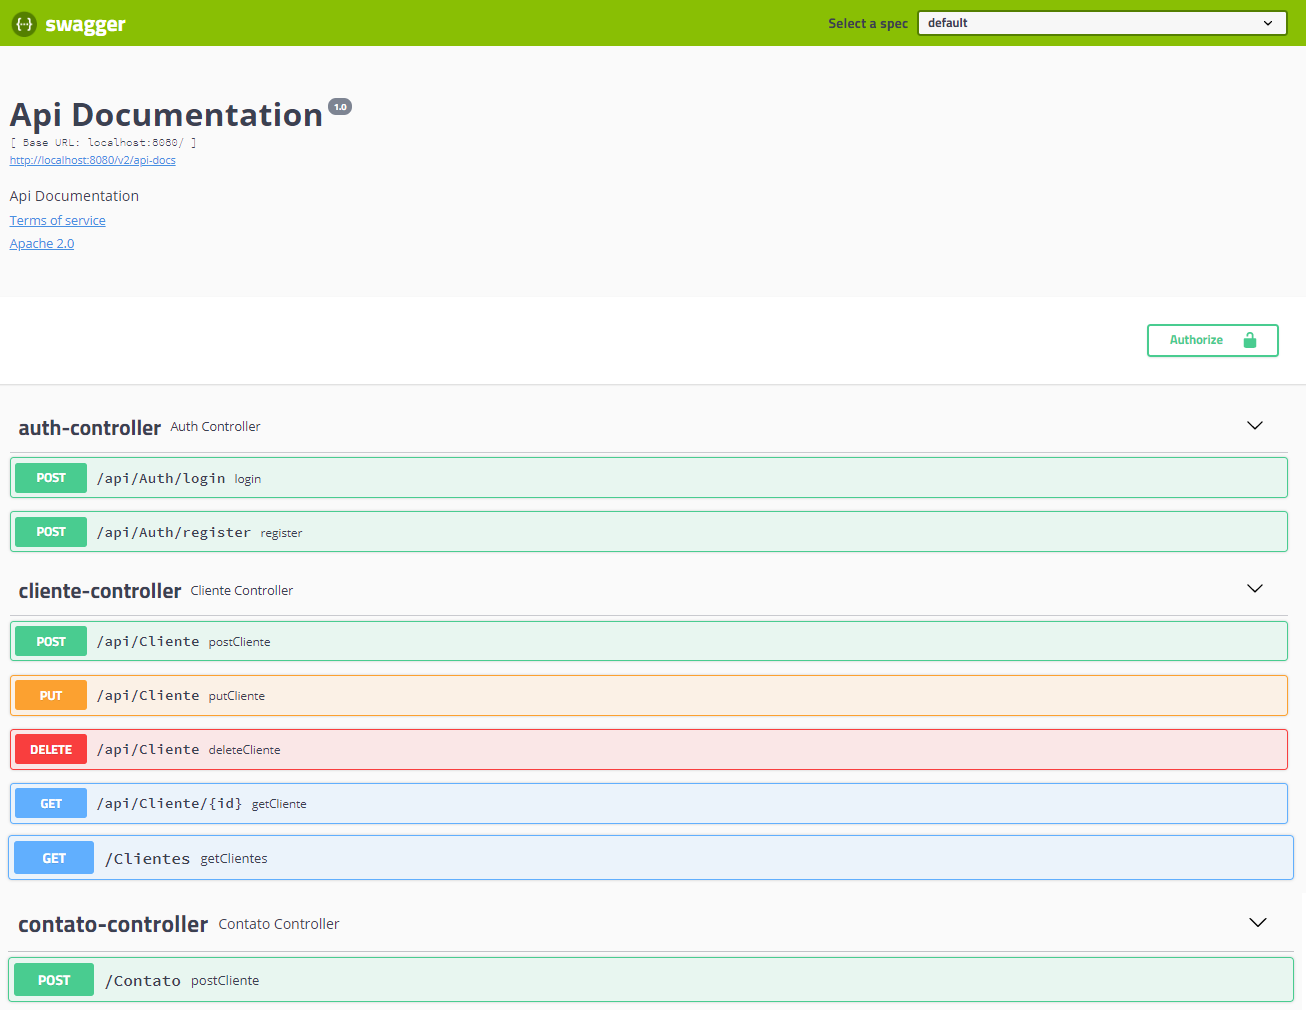
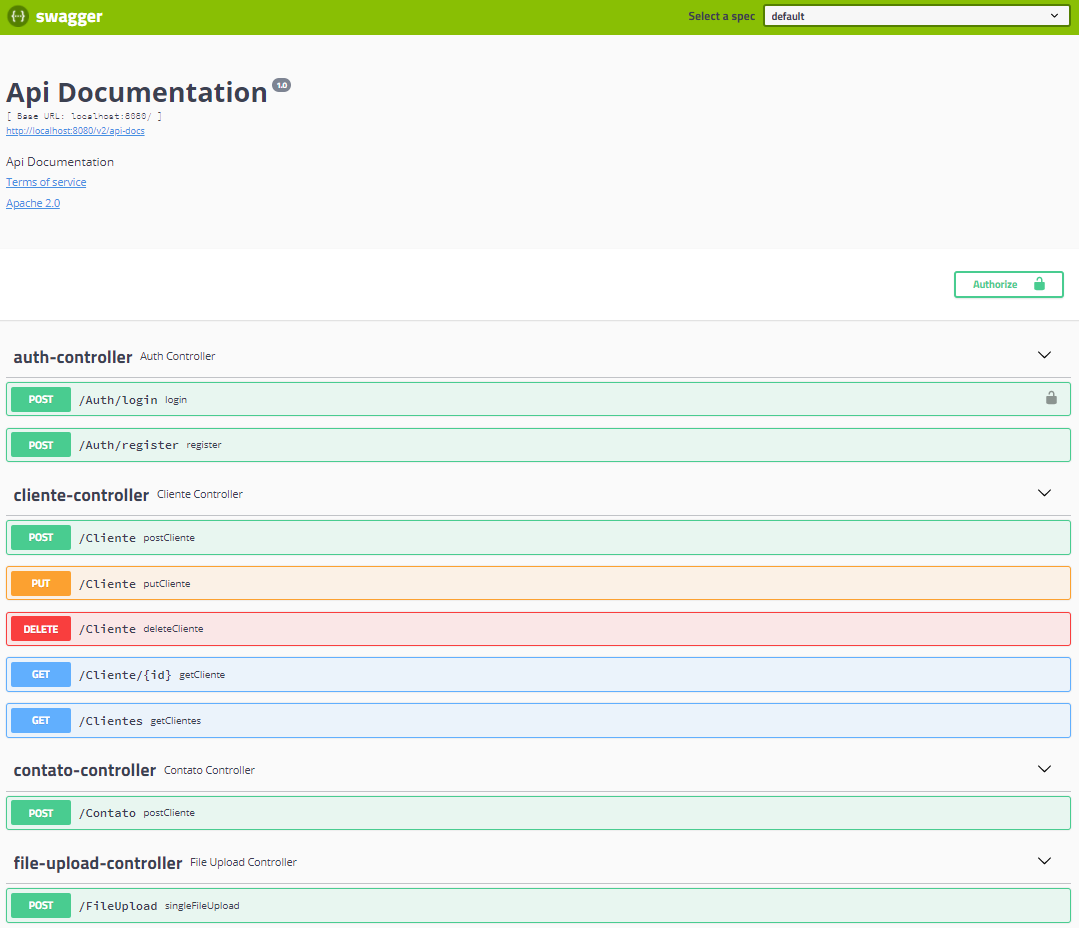
fileupload

Changed region(s): [[0.0, 0.375, 1.0, 1.0], [0.0, 0.0, 1.0, 0.25], [0.8563, 0.2812, 0.9787, 0.375]]

diff --git a/src/main/java/com/cliente/springboot/controller/FileUploadController.java b/src/main/java/com/cliente/springboot/controller/FileUploadController.java
@@ -1,0 +1,44 @@
+package com.cliente.springboot.controller;
+
+import org.springframework.web.bind.annotation.PostMapping;
+import org.springframework.web.bind.annotation.RequestParam;
+import org.springframework.web.multipart.MultipartFile;
+import org.springframework.web.servlet.mvc.support.RedirectAttributes;
+
+import springfox.documentation.swagger2.annotations.EnableSwagger2;
+import org.springframework.web.bind.annotation.RestController;
+import org.springframework.web.bind.annotation.RequestMapping;
+
+import java.io.IOException;
+import java.nio.file.Files;
+import java.nio.file.Path;
+import java.nio.file.Paths;
+
+@EnableSwagger2
+@RestController
+@RequestMapping()
+public class FileUploadController {
+
+    private static String UPLOADED_FOLDER = System.getProperty("java.io.tmpdir");
+
+    @PostMapping("/FileUpload") 
+    public String singleFileUpload(@RequestParam("file") MultipartFile file, RedirectAttributes redirectAttributes) {
+
+        if (file.isEmpty()) {
+            return "Erro ao tentar fazer upload";
+        }
+        try {
+            // Pega os bytes recebido e salva no diretório
+            byte[] bytes = file.getBytes();
+            Path path = Paths.get(UPLOADED_FOLDER + file.getOriginalFilename());
+            Files.write(path, bytes);
+
+            return "Arquivo:'" + file.getOriginalFilename() + "' upload realizado com sucesso!";
+
+        } catch (IOException e) {
+            return "Erro ao tentar fazer upload";
+        }
+
+    }
+
+}

diff --git a/src/main/java/com/cliente/springboot/config/WebSecurityConfig.java b/src/main/java/com/cliente/springboot/config/WebSecurityConfig.java
@@ -19,8 +19,9 @@ public class WebSecurityConfig extends WebSecurityConfigurerAdapter{
                                    "/swagger-resources/**",
                                    "/configuration/security",
                                    "/swagger-ui.html",
-								   "/webjars/**").permitAll()
-			.antMatchers(HttpMethod.POST, "/api/Auth/**").permitAll()
+								   "/webjars/**"
+								   ).permitAll()
+			.antMatchers(HttpMethod.POST, "/Auth/**").permitAll()
 			.anyRequest().authenticated()
 			.and()
 			

diff --git a/src/main/java/com/cliente/springboot/config/SwaggerConfig.java b/src/main/java/com/cliente/springboot/config/SwaggerConfig.java
@@ -60,7 +60,7 @@ public class SwaggerConfig {
     private SecurityContext securityContext() {
         return SecurityContext.builder()
             .securityReferences(defaultAuth())
-            .forPaths(PathSelectors.ant("api/Auth/login/**"))
+            .forPaths(PathSelectors.ant("/**"))
             .build();
     }
     

diff --git a/src/main/java/com/cliente/springboot/controller/AuthController.java b/src/main/java/com/cliente/springboot/controller/AuthController.java
@@ -13,7 +13,7 @@ import org.springframework.web.bind.annotation.RequestMapping;
 import org.springframework.web.bind.annotation.RestController;
 
 @RestController
-@RequestMapping(path="/api")
+@RequestMapping()
 public class AuthController  {
 
     @Autowired
